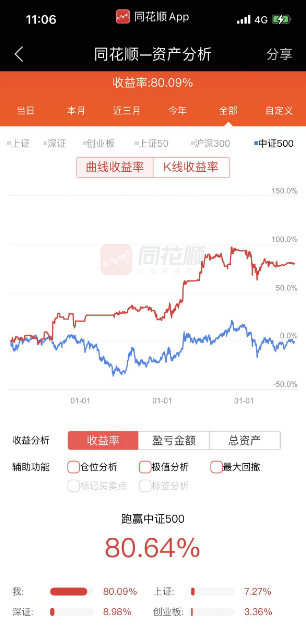
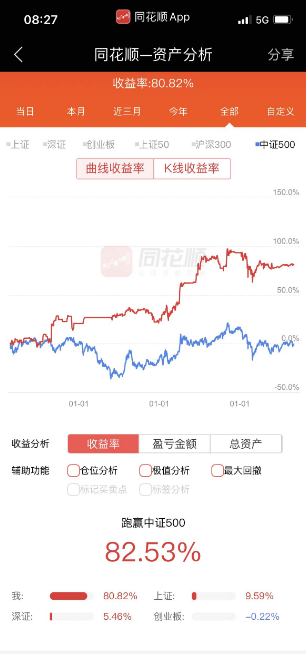
更新策略净值

diff --git a/mynote/investment.md b/mynote/investment.md
@@ -8,7 +8,7 @@
   - 个人成长：量化对知识需求比较多，数学、统计、编程、机器学习，就算没搞好，下限也就是买入持有benchmark；而且一身竞争力。
   - 归因分析：可以快速生成自己持仓的行业暴露、市值偏好等，方便与基准进行对比，找出自己优缺点。
   
-策略战绩(每周更新)：（2021-03-22至2023-04-08），交易胜率0.704，夏普比率1.907，对中证500超额收益97.57%  
+策略战绩(每周更新)：（2021-03-22至2023-05-06），交易胜率0.657，夏普比率1.688，对中证500超额收益115.64%  
 
 <div align=center style="width:80%">
 <img src="../imgs/strategy.png" />
@@ -26,7 +26,7 @@
 
 ## 个人战绩更新
 我好傻逼啊，2022年为什么要配置大盘股，都没有跑赢管理基金的策略！！！我要翻盘！！！  
-(2023-03-23 update) 现在仓位比较低，随着加息周期临近尾声我会逐渐All in 再展雄风。  
+(2023-05-06 update) 现在仓位比较低，随着加息周期临近尾声我会逐渐All in 再展雄风。  
 
 <div align=center style="width:80%">
 <img src="../imgs/my.png" />
